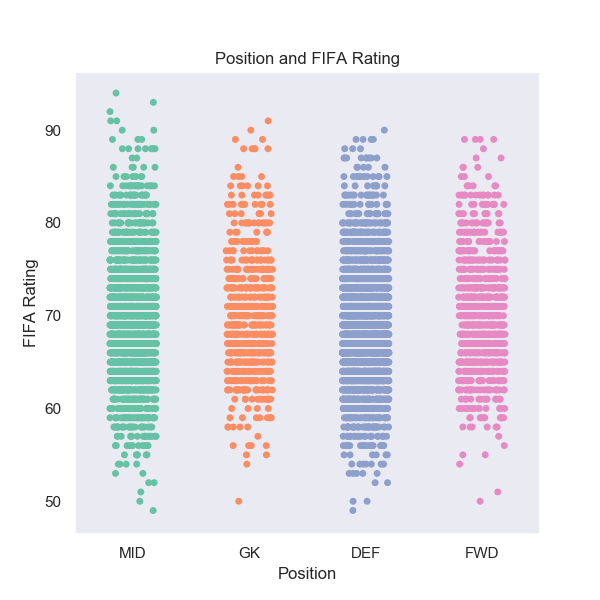
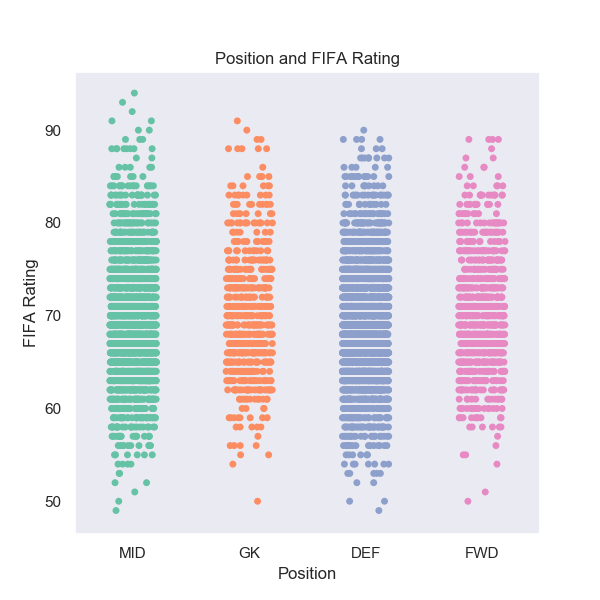
Positions done

diff --git a/logistic.py b/logistic.py
@@ -11,12 +11,12 @@ os.makedirs('plots', exist_ok=True)
 df = pd.read_csv('fifa_20.csv', header=0)
 
 # Drop positions that will not be comparable for analysis
-df = df[(df.team_position != 'SUB') & (df.team_position != 'RES')]
 print(df.team_position.value_counts())
 print(df.shape)
 print(df.columns.values.tolist())
 
-df = df[['overall', 'team_position', 'attacking_crossing', 'attacking_finishing', 'attacking_heading_accuracy',
+df = df[['overall', 'player_positions', 'team_position', 'attacking_crossing', 'attacking_finishing',
+         'attacking_heading_accuracy',
          'attacking_short_passing', 'attacking_volleys', 'skill_dribbling', 'skill_curve', 'skill_fk_accuracy',
          'skill_long_passing', 'skill_ball_control', 'movement_acceleration', 'movement_sprint_speed',
          'movement_agility', 'movement_reactions', 'movement_balance', 'power_shot_power', 'power_jumping',
@@ -25,6 +25,19 @@ df = df[['overall', 'team_position', 'attacking_crossing', 'attacking_finishing'
          'defending_marking', 'defending_standing_tackle', 'defending_sliding_tackle', 'goalkeeping_diving',
          'goalkeeping_handling', 'goalkeeping_kicking', 'goalkeeping_positioning', 'goalkeeping_reflexes']]
 
+# Filling player's position for subs and reserves, as well as NAs from their positions selection
+df['player_positions'] = df['player_positions'].str.split(',').str[0]
+print(df.player_positions.value_counts())
+
+df['team_position'] = np.where((df['team_position'] == 'SUB'), df['player_positions'],
+                               df['team_position'])
+df['team_position'] = np.where((df['team_position'] == 'RES'), df['player_positions'],
+                               df['team_position'])
+print(df['team_position'].head())
+print(df.team_position.value_counts())
+df['team_position'].fillna(df['player_positions'], inplace=True)
+print(df.isnull().sum())
+print(df.team_position.value_counts())
 
 # Reduce number of positions
 def simple_position(df):
@@ -49,22 +62,25 @@ def simple_position(df):
 
 df['position'] = df.apply(simple_position, axis=1)
 
-# Drop both original fields and remove NAs
-df = df.drop(['team_position'], axis=1)
-
-print(df.isnull().sum())
-df = df.dropna()
-print(df.isnull().sum())
+# # Drop both original fields and remove NAs
+df = df.drop(['player_positions', 'team_position'], axis=1)
+print(df.position.value_counts())
 print(df.shape)
 
+# print(df.isnull().sum())
+# df = df.dropna()
+# print(df.isnull().sum())
+# print(df.shape)
+# print(df.team_position.value_counts())
+
 # Distribution of rating overall
-sns.set(style="dark", palette="deep", color_codes=True)
-sns.distplot(df['overall'], kde=False, bins=20, color='b')
-plt.title('Distribution of FIFA Rating')
-plt.xlabel('Bins')
-plt.ylabel('Frequency')
-plt.savefig('plots/hist_rating.png')
-plt.clf()
+# sns.set(style="dark", palette="deep", color_codes=True)
+# sns.distplot(df['overall'], kde=False, bins=20, color='b')
+# plt.title('Distribution of FIFA Rating')
+# plt.xlabel('Bins')
+# plt.ylabel('Frequency')
+# plt.savefig('plots/hist_rating.png')
+# plt.clf()
 
 # # Distribution of rating by position
 # f, axes = plt.subplots(2, 2, figsize=(8, 8), sharex=True)
@@ -74,78 +90,69 @@ plt.clf()
 # sns.distplot(df['overall'][df['position'] == 'GK'], color="teal", ax=axes[1, 1])
 # plt.savefig('plots/hist_rating_position.png')
 # plt.clf()
-
-# Charting overall rating by position
-f, ax = plt.subplots(figsize=(6, 6))
-sns.stripplot(x='position', y='overall', data=df, jitter=0.2, palette="Set2", dodge=True)
-plt.title('Position and FIFA Rating')
-plt.xlabel('Position')
-plt.ylabel('FIFA Rating')
-plt.savefig('plots/scatter_position_rating.png')
-plt.clf()
-
-# Box plot
-sns.set(style="dark", palette="deep", color_codes=True)
-position_order = ['FWD', 'MID', 'DEF', 'GK']
-sns.boxplot(x='position', y='overall', order=position_order, data=df)
-plt.title('Position and FIFA Rating')
-plt.xlabel('Position')
-plt.ylabel('FIFA Rating')
-plt.savefig('plots/box_position_rating.png')
-plt.clf()
-
-# Correlation matrix
-sns.heatmap(df)
-plt.savefig('plots/corr_heatmap.png')
-plt.clf()
+#
+# # Charting overall rating by position
+# f, ax = plt.subplots(figsize=(6, 6))
+# sns.stripplot(x='position', y='overall', data=df, jitter=0.2, palette="Set2", dodge=True)
+# plt.title('Position and FIFA Rating')
+# plt.xlabel('Position')
+# plt.ylabel('FIFA Rating')
+# plt.savefig('plots/scatter_position_rating.png')
+# plt.clf()
+#
+# # Box plot
+# sns.set(style="dark", palette="deep", color_codes=True)
+# position_order = ['FWD', 'MID', 'DEF', 'GK']
+# sns.boxplot(x='position', y='overall', order=position_order, data=df)
+# plt.title('Position and FIFA Rating')
+# plt.xlabel('Position')
+# plt.ylabel('FIFA Rating')
+# plt.savefig('plots/box_position_rating.png')
+# plt.clf()
 
 
-# # linear regression
-# X = df.drop(['position'], axis=1)
-# y = df['position']
-#
-# from sklearn.model_selection import train_test_split
-# from sklearn.preprocessing import StandardScaler
-#
-# scaler = StandardScaler()
-# scaler.fit(X)
-# scaled_features = scaler.transform(X)
-#
-# # Splitting features and target datasets into: train and test
-# X_train, X_test, y_train, y_test = train_test_split(scaled_features, y, test_size=0.3)
-#
-# # Printing original Dataset
-# print(f"X.shape: {X.shape}, y.shape: {y.shape}")
-#
-# # Printing splitted datasets
-# print(f"X_train.shape: {X_train.shape}, y_train.shape: {y_train.shape}")
-# print(f"X_test.shape: {X_test.shape}, y_test.shape: {y_test.shape}")
-#
-# # Training a Linear Regression model with fit()
-# from sklearn.linear_model import LogisticRegression
-#
-# lr = LogisticRegression(max_iter=10000)
-# lr.fit(X_train, y_train)
-#
-# # Predicting the results for our test dataset
-# predicted_values = lr.predict(X_test)
-#
-# # Printing the residuals: difference between real and predicted
-# for (real, predicted) in list(zip(y_test, predicted_values)):
-#     print(f'Value: {real}, pred: {predicted} {"is different" if real != predicted else ""}')
-#
-# # Printing accuracy score(mean accuracy) from 0 - 1
-# print(f'Accuracy score is {lr.score(X_test, y_test):.2f}/1 \n')
-#
-# # Printing the classification report
-# from sklearn.metrics import classification_report, confusion_matrix, f1_score
-#
-# print('Classification Report')
-# print(classification_report(y_test, predicted_values))
-#
-# # Printing the classification confusion matrix (diagonal is true)
-# print('Confusion Matrix')
-# print(confusion_matrix(y_test, predicted_values))
-#
-# print('Overall f1-score')
-# print(f1_score(y_test, predicted_values, average="macro"))
+# # Logistic regression
+X = df.drop(['position', 'overall'], axis=1)
+y = df['position']
+
+from sklearn.model_selection import train_test_split
+
+
+# Splitting features and target datasets into: train and test
+X_train, X_test, y_train, y_test = train_test_split(X, y, test_size=0.3)
+
+# Printing original Dataset
+print(f"X.shape: {X.shape}, y.shape: {y.shape}")
+
+# Printing splitted datasets
+print(f"X_train.shape: {X_train.shape}, y_train.shape: {y_train.shape}")
+print(f"X_test.shape: {X_test.shape}, y_test.shape: {y_test.shape}")
+
+# Training a LogisticRegression model with fit()
+from sklearn.linear_model import LogisticRegression
+
+lr = LogisticRegression(max_iter=10000)
+lr.fit(X_train, y_train)
+
+# Predicting the results for our test dataset
+predicted_values = lr.predict(X_test)
+
+# Printing the residuals: difference between real and predicted
+for (real, predicted) in list(zip(y_test, predicted_values)):
+    print(f'Value: {real}, pred: {predicted} {"is different" if real != predicted else ""}')
+
+# Printing accuracy score(mean accuracy) from 0 - 1
+print(f'Accuracy score is {lr.score(X_test, y_test):.2f}/1 \n')
+
+# Printing the classification report
+from sklearn.metrics import classification_report, confusion_matrix, f1_score
+
+print('Classification Report')
+print(classification_report(y_test, predicted_values))
+
+# Printing the classification confusion matrix (diagonal is true)
+print('Confusion Matrix')
+print(confusion_matrix(y_test, predicted_values))
+
+print('Overall f1-score')
+print(f1_score(y_test, predicted_values, average="macro"))
